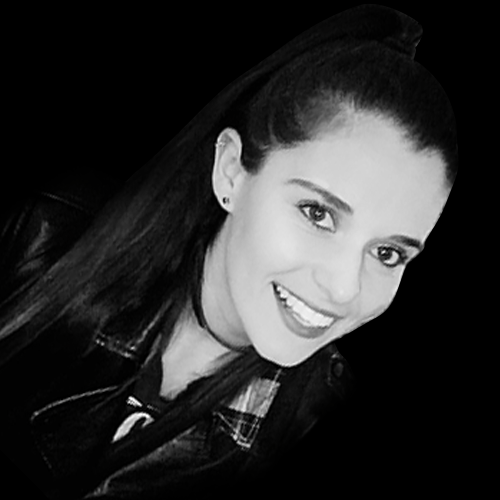
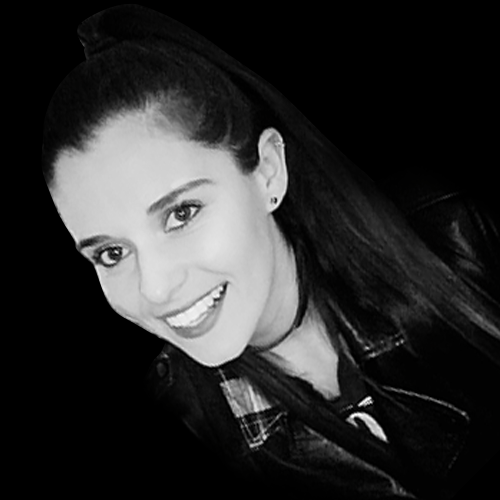
bugs fixed

diff --git a/index.html b/index.html
@@ -89,11 +89,11 @@
 						</div>
 
 						<!-- RPS Game -->
-						<section class="spotlight left">
+						<section class="spotlight right">
 					
 							<a href="https://jae-s.github.io/RPS-multiplayer/" target="_blank" title="Rock Paper Scissors - Multiplayer Game">
 								<div class="image" style="width: 100%; height: auto">
-									<img align="right" src="images/rps_portfolio_cover.png" alt="Rock Paper Scissors Multi-Player Game" />
+									<img src="images/rps_portfolio_cover.png" alt="Rock Paper Scissors Multi-Player Game" />
 								</div>
 							</a>
 							<div class="content">
@@ -105,10 +105,10 @@
 						</section>
 
 						<!-- Liri Bot App -->
-						<section class="spotlight right">
+						<section class="spotlight left">
 							<a href="https://github.com/JAE-S/Liri-node-app" target="_blank">
 								<div class="image" style="width: 100%">
-									<img src="images/liri_bot_portfolio_cover.png" alt="CLI - Liri Bot App" />
+									<img align="right" src="images/liri_bot_portfolio_cover.png" alt="CLI - Liri Bot App" />
 								</div>
 							</a>
 							<div class="content">
@@ -119,9 +119,9 @@
 						</section>
 
 						<!-- Tic Tac Trivia -->
-						<section class="spotlight left">
+						<section class="spotlight right">
 							<a href="https://jae-s.github.io/Tic-Tac-Trivia/" target="_blank">
-								<div align="right" class="image" style="width: 100%; height: auto">
+								<div class="image" style="width: 100%; height: auto">
 									<video playsinline autoplay muted loop id="myVideo">
 										<source class="responsive-video" src="images/tic_tac_trivia_cover.mp4" type="video/mp4"  alt="Tic Tac Trivia - Multi-Player Game" preload>
 									</video>
@@ -135,10 +135,10 @@
 						</section>
 
 						<!-- Crystal Game -->
-						<section class="spotlight right">
+						<section class="spotlight left">
 							<a href="https://jae-s.github.io/unit-4-game-crystals/" target="_blank">
 								<div class="image" style="width: 100%">
-									<img src="images/crystal_collector_portfolio_cover.png" alt="Crystal Collector Game" />
+									<img align="right" src="images/crystal_collector_portfolio_cover.png" alt="Crystal Collector Game" />
 								</div>
 							</a>
 							<div class="content">
@@ -149,7 +149,7 @@
 						</section>
 
 						<!-- Word Guess Game -->
-						<section class="spotlight left">
+						<section class="spotlight right">
 							<a href="https://jae-s.github.io/Word_Guess_Game/" target="_blank">
 								<div class="image" style="width: 100%">
 									<img align="right" src="images/word_guess_game_cover.png" alt="Word Guess Game" />
@@ -163,10 +163,10 @@
 						</section>
 
 					<!-- Trivia -->
-					<section class="spotlight right">
+					<section class="spotlight left">
 							<a href="https://jae-s.github.io/TriviaGame/" target="_blank">
 								<div class="image" style="width: 100%">
-									<img src="images/crazy_state_laws_portfolio_cover.png" alt="Crazy State Laws - Trivia" />
+									<img align="right" src="images/crazy_state_laws_portfolio_cover.png" alt="Crazy State Laws - Trivia" />
 								</div>
 							</a>
 							<div class="content">
@@ -177,10 +177,10 @@
 						</section>
 
 					<!-- Giphy Generator-->
-					<section class="spotlight left">
+					<section class="spotlight right">
 						<a href="https://jae-s.github.io/Giphy-Project/" target="_blank">
 							<div class="image" style="width: 100%">
-								<img align="right" src="images/giphy_generator_portfolio_cover.png" alt="Giphy Generator" />
+								<img src="images/giphy_generator_portfolio_cover.png" alt="Giphy Generator" />
 							</div>
 						</a>
 						<div class="content">
@@ -191,10 +191,10 @@
 					</section>
 
 					<!-- Psychic Game -->
-					<section class="spotlight right">
+					<section class="spotlight left">
 							<a href="https://jae-s.github.io/Psychic-Game/" target="_blank">
 								<div class="image" style="width: 100%">
-									<img src="images/psychic_game_portfolio_cover.png" alt="Psychic Game" />
+									<img align="right" src="images/psychic_game_portfolio_cover.png" alt="Psychic Game" />
 								</div>
 							</a>
 							<div class="content">

diff --git a/assets/css/custom.css b/assets/css/custom.css
@@ -35,18 +35,19 @@
     box-shadow: 0 16px 24px 2px rgba(0, 0, 0, 0.288), 
                 0 6px 30px 5px rgba(0,0,0,0.12), 
                 0 8px 10px -7px rgba(0,0,0,0.2);
-    -ms-transform: rotate(-45deg); /* IE 9 */
-    -webkit-transform: rotate(-45deg); /* Safari */
-    transform: rotate(-45deg);
+    -ms-transform: rotate(45deg); /* IE 9 */
+    -webkit-transform: rotate(45deg); /* Safari */
+    transform: rotate(45deg);
 width: 18em;
-margin-left: 3em;
+margin: 0 auto; 
+margin-right: 3em;
 
 }
 
 .spotlight .content {
     max-width: 100%;
-    padding: 2em 0em 0.1em 4em;
-    margin-left: 3em;
+    padding: 2em 0em 0.1em 0em;
+    margin-right: 4em;
 }
 
 .spotlight:hover {
@@ -306,7 +307,7 @@ input[type="submit"].primary:hover, .button.primary:hover {
     }
 
     #profile-image {
-        width: 18em;
+        width: 14em;
         margin: 0 auto; 
     }
 
